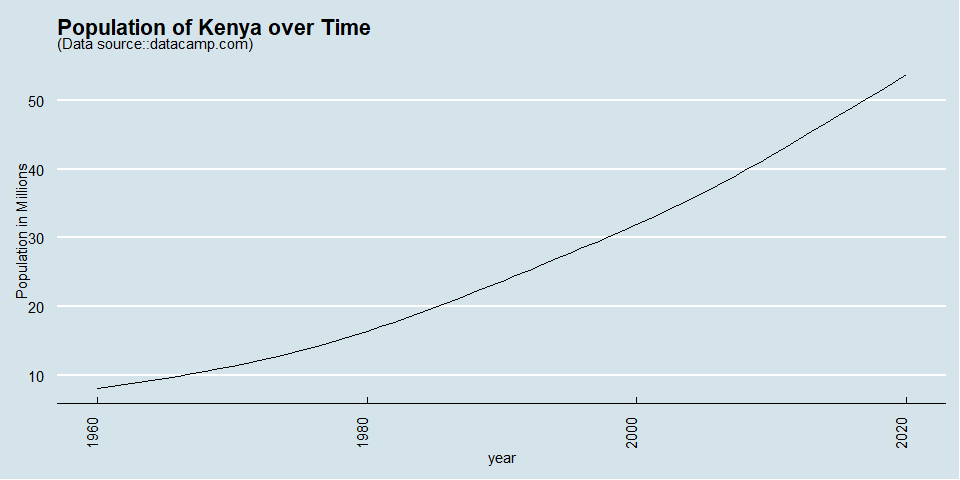
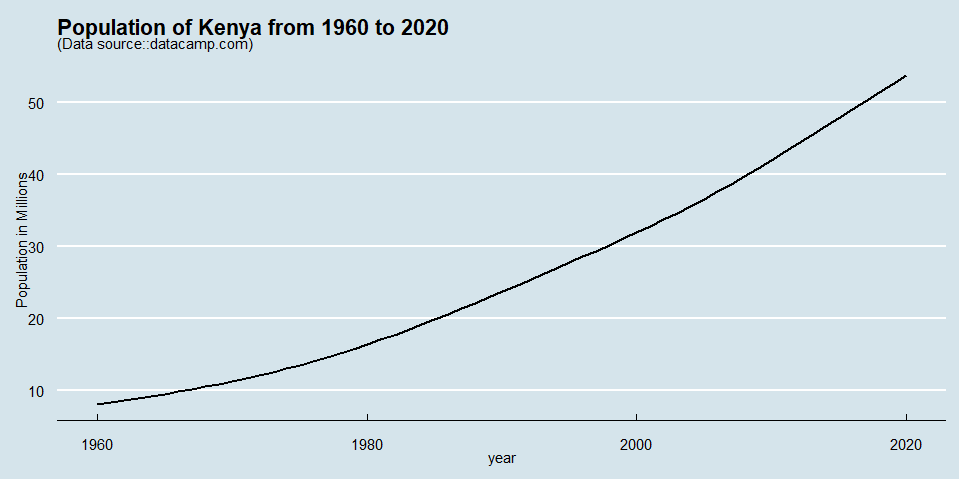
updates

diff --git a/script.md b/script.md
@@ -8,6 +8,14 @@ Mwangi George
 -   <a href="#wrangling-the-data" id="toc-wrangling-the-data">Wrangling the
     data</a>
 -   <a href="#analysis" id="toc-analysis">Analysis</a>
+    -   <a href="#how-did-the-population-of-kenya-change-over-time"
+        id="toc-how-did-the-population-of-kenya-change-over-time">How did the
+        population of Kenya change over time?</a>
+    -   <a
+        href="#how-did-the-population-in-different-regions-of-the-world-change-over-time"
+        id="toc-how-did-the-population-in-different-regions-of-the-world-change-over-time">How
+        did the population in different regions of the world change over
+        time?</a>
 
 ``` r
 # load important packages
@@ -39,10 +47,9 @@ pop_data <- read_csv("datasets/pop_data.csv",
 
 ## Wrangling the data
 
-For any kind of work that involves data analytics, it is important that
-the analyst understands the structure, data types, shape of the data
-they are working with. In this section, we are going to run some code to
-help us explore our data.
+It is critical that we comprehend the structure, data types, and shape
+of the data we’ll be working with. We will execute some code in this
+part to aid in our data exploration.
 
 ``` r
 # print the structure of pop_data
@@ -116,7 +123,7 @@ glimpse(pop_data)
     ## $ `2019`           <dbl> 106310, 660046272, 38041757, 446911598, 31825299, 285…
     ## $ `2020`           <dbl> 106766, 677243299, 38928341, 458803476, 32866268, 283…
 
-From the above outpt, we make some important insights about our data:
+From the above output, we make some important insights about our data:
 
 -   The data contains 266 rows and 64 columns. Each country has a single
     row with multiple columns to hold the population figures of various
@@ -203,7 +210,7 @@ We can make some important observations from the code output above:
     contains 265 rows, indicating that there exists a record in one
     table and not in the other table.
 
--   Some obversations are coded as `null` insetad of `NA`.
+-   Some observations are coded as `null` instead of `NA`.
 
 -   Also, we will rename the `table_name` column to `country_name`.
 
@@ -345,7 +352,7 @@ world_pop <- world_pop %>%
 
 ## Analysis
 
-**How did the population of Kenya change over time?**
+### How did the population of Kenya change over time?
 
 We will make a graphic that plots population data on the y axis and time
 on the x axis in order to provide an answer to this question. But first,
@@ -361,19 +368,169 @@ world_pop %>%
   filter(country_name == "Kenya") %>% 
   # manipulate variables of interest
   transmute(year, population = population/1000000)%>%
-  # create a the plot's base layer
+  # create the plot's base layer
   ggplot(aes(year, population))+
-  geom_line()+
+  geom_line(size = 1)+
   theme_economist()+
-  theme(axis.text.x = element_text(angle = 90))+
-  labs(title = "Population of Kenya over Time",
+  labs(title = "Population of Kenya from 1960 to 2020",
        y = "Population in Millions",
        subtitle = "(Data source::datacamp.com)")
 ```
 
 ![](script_files/figure-gfm/unnamed-chunk-12-1.png)<!-- -->
 
+``` r
+# determine population growth rate
+Kenya <- world_pop %>% 
+  filter(country_name == "Kenya") %>% 
+  transmute(year, 
+            population, 
+            population_lag = lag(population),
+            growth_rate = (population - population_lag)/population*100)
+
+head(Kenya)
+```
+
+    ## # A tibble: 6 × 4
+    ##    year population population_lag growth_rate
+    ##   <dbl>      <dbl>          <dbl>       <dbl>
+    ## 1  1960    8120082             NA       NA   
+    ## 2  1961    8377693        8120082        3.07
+    ## 3  1962    8647002        8377693        3.11
+    ## 4  1963    8928510        8647002        3.15
+    ## 5  1964    9222692        8928510        3.19
+    ## 6  1965    9530163        9222692        3.23
+
+``` r
+# calculate average population growth rate 
+Kenya %>% 
+  summarize(average_pop_growth_rate = mean(growth_rate, na.rm = T))
+```
+
+    ## # A tibble: 1 × 1
+    ##   average_pop_growth_rate
+    ##                     <dbl>
+    ## 1                    3.10
+
 It is evident from the graph above that Kenya’s population increased
 quickly between 1960 and 2020. The population was about 8 million in
 1960. Since then, this number has increased to over 50 million until the
-year 2020.
+year 2020. On average, the population grew by 3.100397 percent between
+1960 and 2020.
+
+### How did the population in different regions of the world change over time?
+
+Let’s start by identifying all the regions in the world_pop dataset.
+
+``` r
+# print unique regions in the world
+unique(world_pop$region)
+```
+
+    ## [1] Latin America & Caribbean  <NA>                      
+    ## [3] South Asia                 Sub-Saharan Africa        
+    ## [5] Europe & Central Asia      Middle East & North Africa
+    ## [7] East Asia & Pacific        North America             
+    ## 7 Levels: East Asia & Pacific ... Sub-Saharan Africa
+
+We identify 7 regions in the dataset. We are going to analyze each of
+these regions individually and then compare the findings.
+
+**Latin America & Caribbean Region**
+
+``` r
+# filter for observations where region is Latin America & Caribbean
+Latin_America_Caribbean <- world_pop %>%
+  filter(region == "Latin America & Caribbean")
+
+# aggregate the population 
+summarized_latin <- Latin_America_Caribbean %>%
+  # select variables of interest
+  transmute(year, 
+            # transform population into millions
+            population = population/1000000) %>% 
+  group_by(year) %>% 
+  # aggregate the population for all countries
+  summarize(population =sum(population))
+
+# print the first 6 rows of the aggregated data
+head(summarized_latin)
+```
+
+    ## # A tibble: 6 × 2
+    ##    year population
+    ##   <dbl>      <dbl>
+    ## 1  1960       220.
+    ## 2  1961       226.
+    ## 3  1962       232.
+    ## 4  1963       239.
+    ## 5  1964       245.
+    ## 6  1965       252.
+
+``` r
+# print the first 6 rows of the aggregated data
+tail(summarized_latin)
+```
+
+    ## # A tibble: 6 × 2
+    ##    year population
+    ##   <dbl>      <dbl>
+    ## 1  2015       622.
+    ## 2  2016       628.
+    ## 3  2017       635.
+    ## 4  2018       640.
+    ## 5  2019       646.
+    ## 6  2020       652.
+
+``` r
+# visualize the data
+summarized_latin %>% 
+  ggplot(aes(year, population))+
+  geom_line(size = 1)+
+  theme_economist()+
+  labs(title = "Population Growth of the Latin America & Caribbean Region from 1960 to 2020",
+       y = "Population in Millions",
+       subtitle = "(Data source::datacamp.com)")
+```
+
+![](script_files/figure-gfm/unnamed-chunk-14-1.png)<!-- -->
+
+``` r
+# create population growth rate for each year 
+summarized_latin <- summarized_latin %>% 
+  mutate(population_lag = lag(population),
+         growth_rate = (population- population_lag)/population*100)
+
+#print summarized_latin
+summarized_latin
+```
+
+    ## # A tibble: 61 × 4
+    ##     year population population_lag growth_rate
+    ##    <dbl>      <dbl>          <dbl>       <dbl>
+    ##  1  1960       220.            NA        NA   
+    ##  2  1961       226.           220.        2.69
+    ##  3  1962       232.           226.        2.70
+    ##  4  1963       239.           232.        2.69
+    ##  5  1964       245.           239.        2.67
+    ##  6  1965       252.           245.        2.63
+    ##  7  1966       258.           252.        2.58
+    ##  8  1967       265.           258.        2.54
+    ##  9  1968       272.           265.        2.51
+    ## 10  1969       279.           272.        2.47
+    ## # … with 51 more rows
+
+``` r
+# calculate the average growth rate for all years
+summarized_latin %>% 
+summarize(mean_growth_rate = mean(growth_rate, na.rm= T))
+```
+
+    ## # A tibble: 1 × 1
+    ##   mean_growth_rate
+    ##              <dbl>
+    ## 1             1.79
+
+The population of the region of Latin America and the Caribbean has been
+growing at a declining rate, according to the graph above. Between 1960
+and 2020, this region’s average growth rate was 1.794714 percent.
